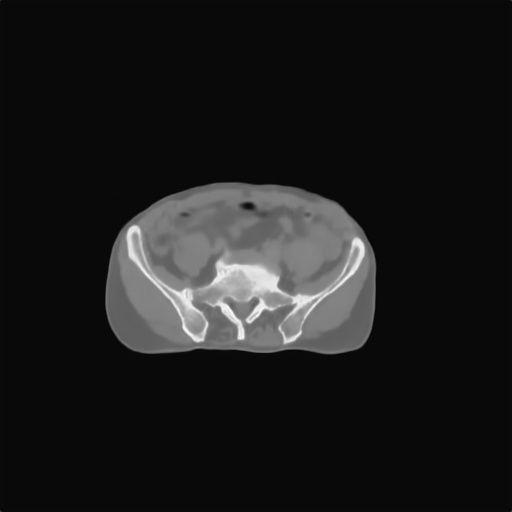
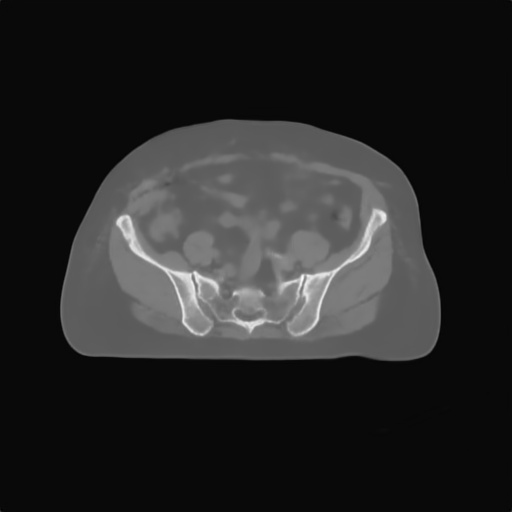
Now uploaded image will run model and show result

Changed region(s): [[0.0938, 0.2188, 0.875, 0.7188], [0.25, 0.5625, 0.2812, 0.5938]]

diff --git a/server/django/cbct/run_model/templates/run_model/show_result.html b/server/django/cbct/run_model/templates/run_model/show_result.html
@@ -53,6 +53,8 @@
                 <!-- Page content-->
                 <div class="container-fluid">
                     <h1 class="mt-4">Show result</h1>
+					<p> original image </p>
+                    <img src="{% static 'run_model/ori.jpg' %}" alt="PROC">
 					<p> enhanced image </p>
                     <img src="{% static 'run_model/proc.jpg' %}" alt="PROC">
                 </div>

diff --git a/server/django/cbct/run_model/views.py b/server/django/cbct/run_model/views.py
@@ -18,6 +18,14 @@ def run_model(request):
 def upload_file(request):
     if request.method == 'POST':
         form = UploadFileForm(request.POST, request.FILES)
+
+        # check if file format is correct
+        filename = str(request.FILES['file'])
+        print(filename)
+        if filename.split('.')[-1] != 'dcm':
+            print('Wrong Data format')
+            return HttpResponse('Wrong Data format, please upload a .dcm file')
+
         if form.is_valid():
             handle_uploaded_file(request.FILES['file'])
             return HttpResponseRedirect('loading')
@@ -36,4 +44,17 @@ def home(request):
 
 
 def loading(request):
-    return render(request, 'run_model/loading.html')
+    from shutil import copyfile
+    import subprocess
+
+    # copy the uploaded dicom file to model input folder
+    copyfile('run_model/upload_files/upload.dcm', '../../input/in.dcm')
+
+    # run model
+    subprocess.run(['python', '../../inference.py'])
+
+    # copy the result back to server static folder
+    copyfile('../../output/ori.jpg', 'run_model/static/run_model/ori.jpg')
+    copyfile('../../output/proc.jpg', 'run_model/static/run_model/proc.jpg')
+
+    return render(request, 'run_model/show_result.html')

diff --git a/server/django/cbct/run_model/utils.py b/server/django/cbct/run_model/utils.py
@@ -1,5 +1,7 @@
+
+
 def handle_uploaded_file(f):
-    with open('run_model/upload_files/upload.txt', 'wb+') as destination:
+    with open('run_model/upload_files/upload.dcm', 'wb+') as destination:
         for chunk in f.chunks():
             destination.write(chunk)
 
